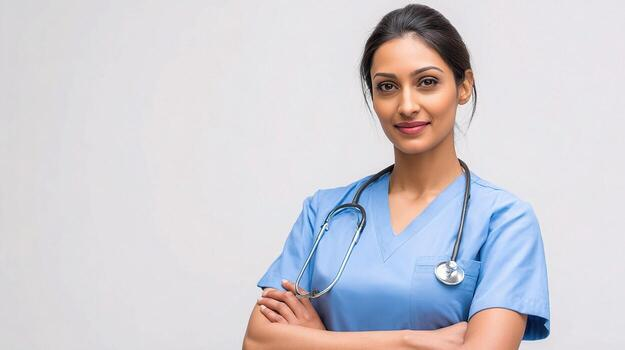
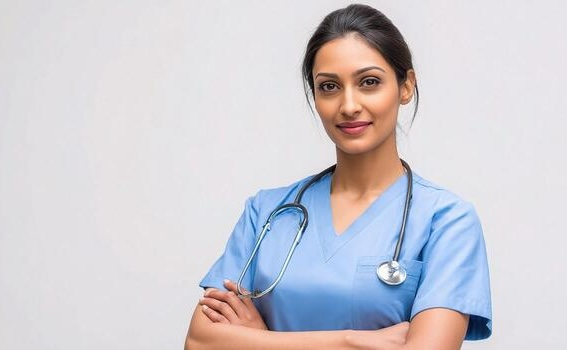
fixed front page formatting v1

Changed region(s): [[0.2998, 0.0, 0.8995, 1.0]]

diff --git a/style.css b/style.css
@@ -93,10 +93,10 @@ nav {
 .hero-image-wrap {
     position: absolute;
     top: 0;
-    right: 0;
-    width: 60%; 
+    left: 45%;
+    width: 55%;
     height: 100%;
-    z-index: 1; 
+    z-index: 1;
 }
 
 .hero-img {
@@ -114,7 +114,7 @@ nav {
     left: 0;
     width: 100%;
     height: 100%;
-    background: linear-gradient(to right, #94cce2 5%, rgba(255, 255, 255, 0) 40%);
+    background: linear-gradient(to right, #94cce2 0%, rgba(255, 255, 255, 0) 30%);
     z-index: 2;
     pointer-events: none;
 }
@@ -128,7 +128,7 @@ nav {
     height: 100%;
     min-height: 78vh;
     padding: 80px 60px 80px 80px;
-    max-width: 650px; 
+    width: 45%; 
     background: #94cce2; 
 }
 
@@ -948,7 +948,7 @@ footer {
     .hero { grid-template-columns: 1fr; min-height: auto; }
     .hero-content { padding: 60px 24px; }
     .hero-content h1 { font-size: 36px; }
-    .hero-image-wrap { height: 300px; }
+    .hero-image-wrap { height: 300px; width: 55%; }
     .hero-image-wrap::before { width: 0; }
     .services, .why-choose { padding: 70px 24px; }
     .services-grid { grid-template-columns: 1fr; }